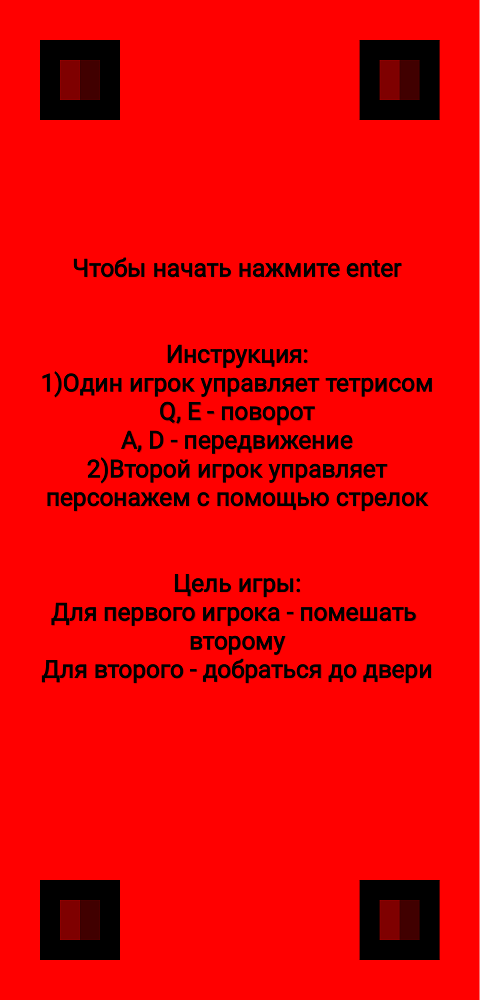
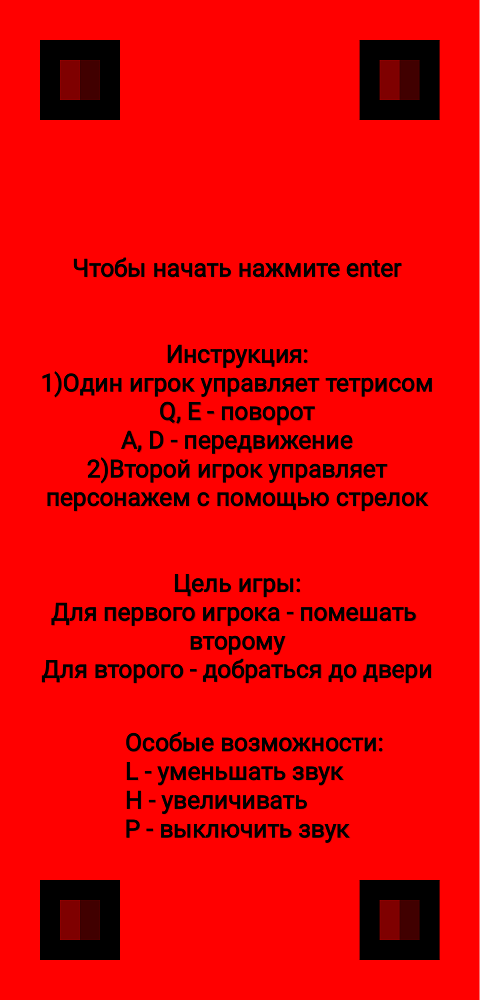
Strashnov & Beliakov.

Changed region(s): [[0.25, 0.713, 0.7812, 0.837]]

diff --git a/main.py b/main.py
@@ -9,6 +9,7 @@ win, lose = False, False
 last_right = True
 cnt = 0
 plus_v = 0
+Pause = False
 def load_image(name, colorkey=None):
     image = pygame.image.load(os.path.join('data', name))
     if colorkey is not None:
@@ -39,6 +40,7 @@ if __name__ == '__main__':
     clock = pygame.time.Clock()
     fps = 40
     v = 5
+    vol = 1.0
     running = True
     while running:
         for event in pygame.event.get():
@@ -47,6 +49,21 @@ if __name__ == '__main__':
             if event.type == pygame.KEYDOWN:
                 if event.key == pygame.K_RETURN:
                     running = False
+            if event.type == pygame.KEYDOWN:
+                if event.key == pygame.K_p:
+                    Pause = not Pause
+                    if Pause:
+                        pygame.mixer.music.pause()
+                    else:
+                        pygame.mixer.music.unpause()
+                elif event.key == pygame.K_l:
+                    vol -= 0.1
+                    pygame.mixer.music.set_volume(vol)
+                    print(pygame.mixer.music.get_volume())
+                elif event.key == pygame.K_h:
+                    vol += 0.1
+                    pygame.mixer.music.set_volume(vol)
+                    print(pygame.mixer.music.get_volume())
         all_sprites.draw(screen)
         pygame.display.flip()
         clock.tick(fps)
@@ -307,6 +324,8 @@ if __name__ == '__main__':
     pygame.display.set_caption('Тетрис-Паркур')
     pygame.mixer.music.load("data/Missiya_Nevypolnima_-_Mission_Impossible_Theme_Ost_Missiya_nevypolnima_Plemya_izgoev_62673572.mp3")
     pygame.mixer.music.play(0)
+    if Pause:
+        pygame.mixer.music.pause()
     font = pygame.font.SysFont('microsofttaile', 32)
     vol = 1.0
     size = width, height = 480, 1000
@@ -320,7 +339,6 @@ if __name__ == '__main__':
     running = True
     fps = 60
     v = 5
-    Pause = False
     clock = pygame.time.Clock()
     while running:
         for event in pygame.event.get():
